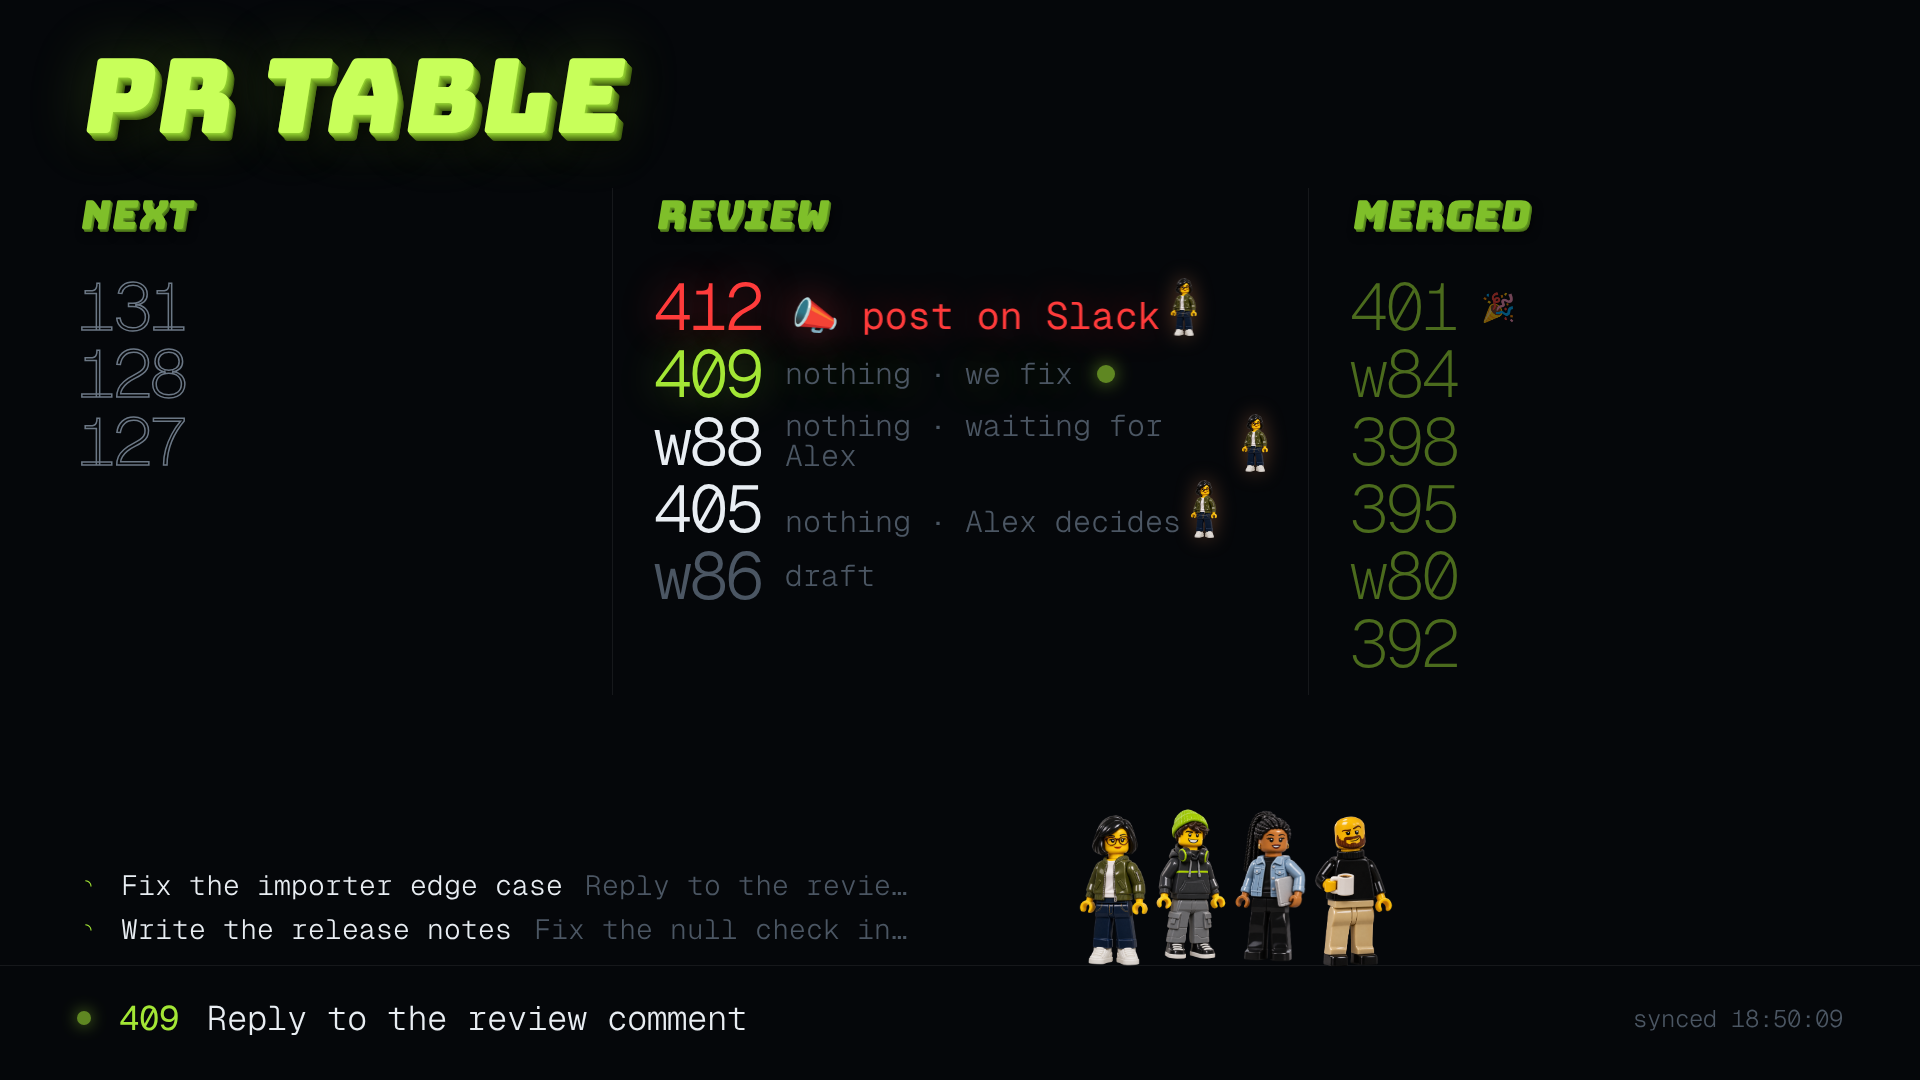
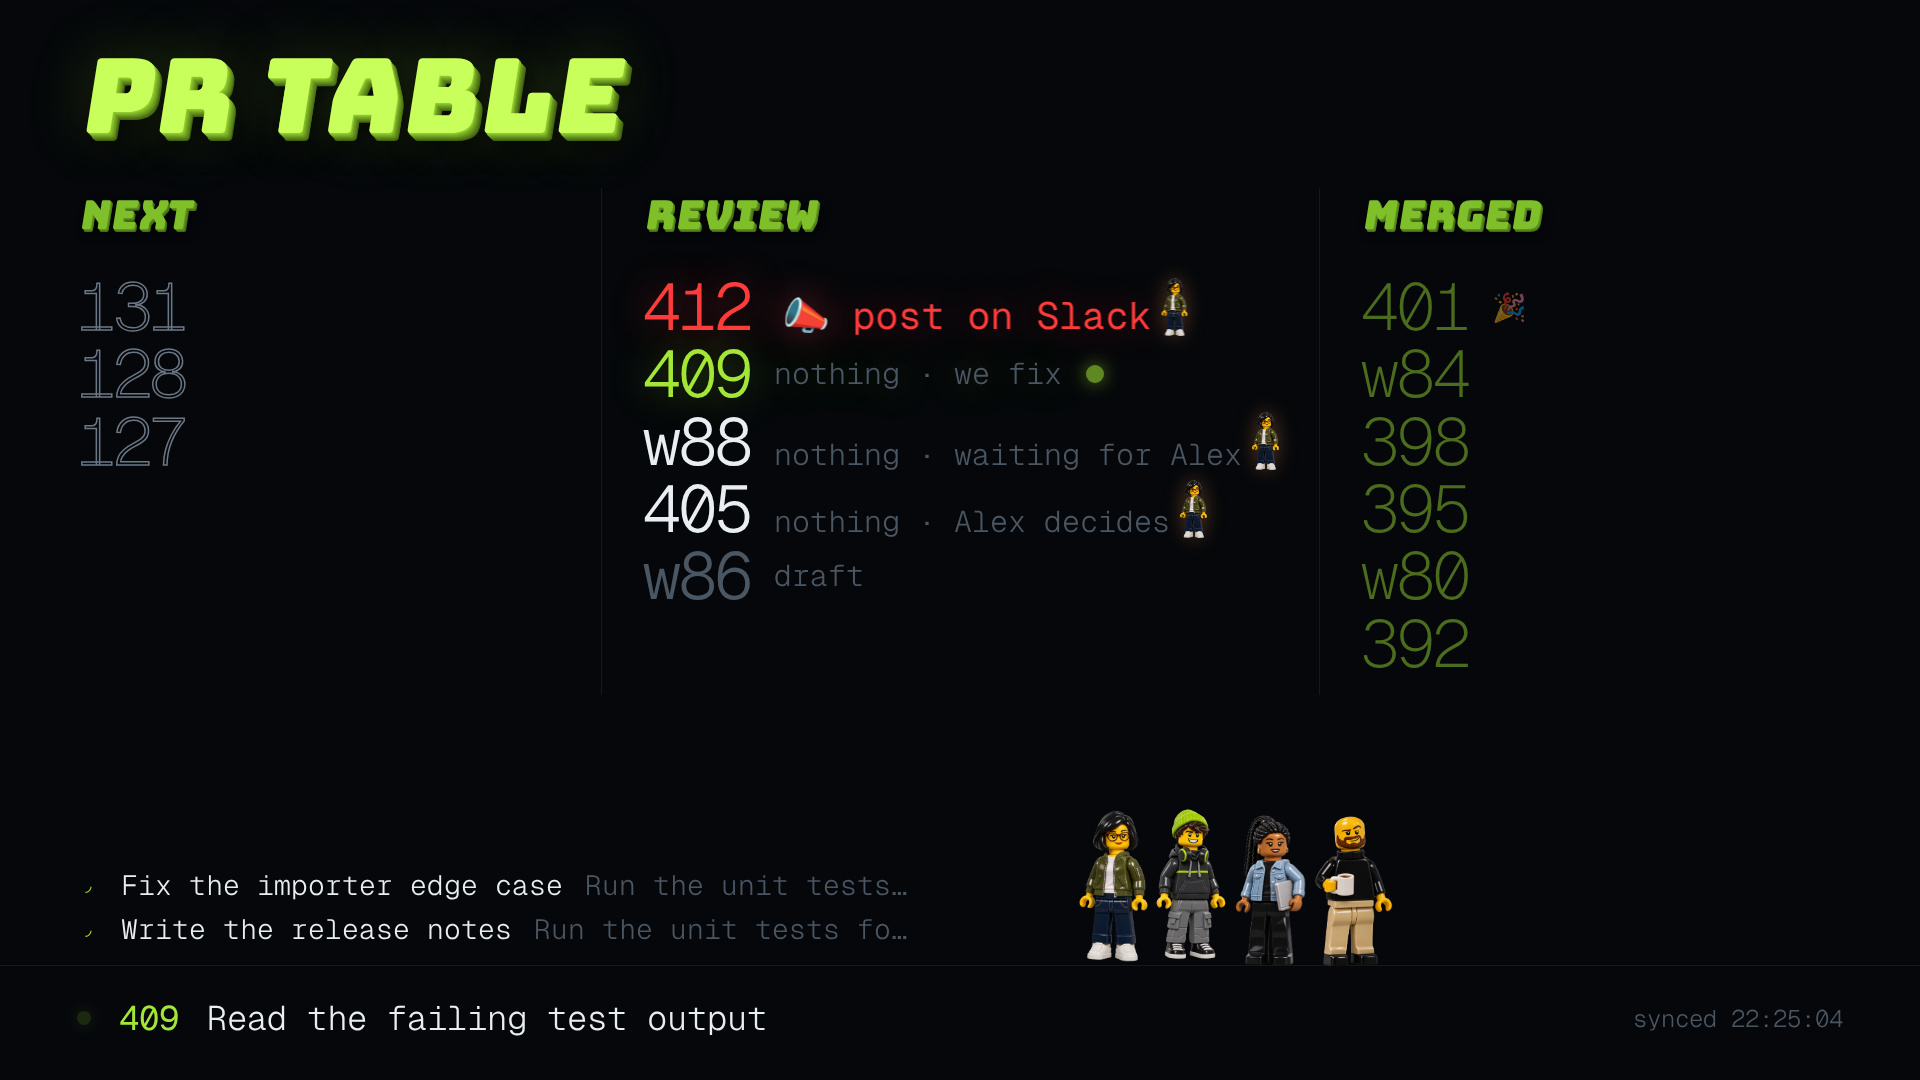
Launch slides in top-launch style, team-first copy, --host for TVs

diff --git a/launch/slides.html b/launch/slides.html
@@ -1,0 +1,106 @@
+<!doctype html>
+<html lang="en">
+<head>
+<meta charset="utf-8">
+<title>PR Table slides</title>
+<link href="https://fonts.googleapis.com/css2?family=Inter+Tight:wght@500;600;700&family=Inter:wght@400;500;600&family=Bungee&family=Geist+Mono:wght@400&display=swap" rel="stylesheet">
+<style>
+* { margin: 0; box-sizing: border-box; }
+html, body { width: 1270px; height: 760px; overflow: hidden; }
+body { position: relative; background: #f7f4ee; font-family: Inter, sans-serif; color: #17181a; }
+body::before { content: ""; position: absolute; inset: 0; background-image: radial-gradient(#d9d2c6 1.1px, transparent 1.2px); background-size: 14px 14px; -webkit-mask-image: radial-gradient(ellipse at 50% 40%, #000 0%, #0008 45%, transparent 80%); }
+body::after { content: ""; position: absolute; inset: 0; background: radial-gradient(ellipse at 50% 110%, #ffffff 0%, transparent 60%); pointer-events: none; }
+.slide { position: absolute; inset: 0; display: none; z-index: 1; }
+.slide.on { display: block; }
+.brand { position: absolute; top: 34px; left: 50%; transform: translateX(-50%); display: flex; align-items: center; gap: 10px; font-family: Bungee, sans-serif; font-size: 20px; color: #3f6a12; }
+.brand img { width: 30px; height: 30px; border-radius: 8px; }
+h1 { position: absolute; left: 0; right: 0; top: 76px; text-align: center; font-family: "Inter Tight", sans-serif; font-weight: 600; font-size: 52px; line-height: 1.04; letter-spacing: -0.035em; }
+h1.two { top: 70px; }
+.sub { position: absolute; left: 0; right: 0; top: 188px; text-align: center; font-size: 20px; color: #6b6b6b; letter-spacing: -0.01em; }
+.monitor { position: absolute; left: 50%; transform: translateX(-50%); background: #0d0f12; border-radius: 18px; padding: 12px; box-shadow: 0 30px 80px -20px #2b241a55, 0 2px 0 #ffffff inset; }
+.monitor img { display: block; width: 100%; border-radius: 8px; }
+.stand { position: absolute; left: 50%; transform: translateX(-50%); width: 120px; height: 34px; background: linear-gradient(#cfc8bb, #b9b1a3); clip-path: polygon(30% 0, 70% 0, 85% 100%, 15% 100%); }
+.crew { position: absolute; display: flex; align-items: flex-end; gap: 6px; }
+.crew img { height: 100%; filter: drop-shadow(0 14px 14px #3a2f1f40); }
+.panel { position: absolute; background: #0d0f12; border-radius: 16px; overflow: hidden; box-shadow: 0 30px 80px -20px #2b241a66; }
+.panel img { display: block; }
+.icons { position: absolute; left: 50%; top: 250px; transform: translateX(-50%); display: grid; grid-template-columns: repeat(6, 104px); gap: 20px; }
+.tile { width: 104px; height: 104px; border-radius: 26px; background: #fff; box-shadow: 0 10px 30px -10px #3a2f1f44, 0 0 0 1px #00000008; display: grid; place-items: center; }
+.tile i { width: 54px; height: 54px; display: block; -webkit-mask: var(--icon) center / contain no-repeat; mask: var(--icon) center / contain no-repeat; background: var(--c); }
+.tile.pr { background: #05070a; }
+.tile.pr span { font-family: Bungee, sans-serif; font-size: 40px; color: #c8ff5a; transform: skew(-9deg); text-shadow: 2px 2px 0 #638f1c, 4px 4px 0 #426210; }
+.labels { position: absolute; left: 50%; top: 384px; transform: translateX(-50%); display: grid; grid-template-columns: repeat(6, 104px); gap: 20px; text-align: center; font-size: 14px; color: #6b6b6b; font-weight: 500; }
+.code { position: absolute; left: 50%; top: 452px; transform: translateX(-50%); width: 760px; background: #fff; border-radius: 18px; box-shadow: 0 20px 50px -18px #3a2f1f44, 0 0 0 1px #00000008; padding: 22px 26px; font-family: "Geist Mono", monospace; font-size: 15px; line-height: 1.65; color: #2b2b2b; white-space: pre; }
+.code b { color: #3f6a12; font-weight: 400; }
+.code s { color: #9a6b2f; text-decoration: none; }
+.chip { position: absolute; background: #fff; border-radius: 14px; padding: 14px 18px; box-shadow: 0 16px 40px -14px #3a2f1f55, 0 0 0 1px #00000008; font-size: 15px; display: flex; align-items: center; gap: 10px; }
+.chip .dot { width: 10px; height: 10px; border-radius: 50%; }
+</style>
+</head>
+<body>
+
+<section class="slide" data-n="1">
+  <div class="brand"><img src="logo-480.png" alt="">PR TABLE</div>
+  <h1>Your team's pull requests,<br>on the wall.</h1>
+  <div class="monitor" style="top:246px; width:760px"><img src="gallery/board.png" alt=""></div>
+  <div class="stand" style="top:690px"></div>
+  <div class="crew" style="left:58px; bottom:-6px; height:300px"><img src="../web/assets/crew/crew-1.png" alt=""><img src="../web/assets/crew/crew-2.png" alt=""></div>
+  <div class="crew" style="right:58px; bottom:-6px; height:300px"><img src="../web/assets/crew/crew-3.png" alt=""><img src="../web/assets/crew/crew-4.png" alt=""></div>
+</section>
+
+<section class="slide" data-n="2">
+  <div class="brand"><img src="logo-480.png" alt="">PR TABLE</div>
+  <h1>One red line.<br>Everything else can wait.</h1>
+  <div class="panel" style="left:50%; transform:translateX(-50%); top:244px; width:690px; height:420px"><img src="gallery/board.png" alt="" style="width:1860px; margin:-232px 0 0 -570px"></div>
+  <div class="chip" style="left:290px; top:684px"><span class="dot" style="background:#ff3b3b"></span>Needs you: post it on Slack</div>
+  <div class="chip" style="right:290px; top:684px"><span class="dot" style="background:#9aa3ad"></span>Everything else: <b>nothing</b></div>
+</section>
+
+<section class="slide" data-n="3">
+  <div class="brand"><img src="logo-480.png" alt="">PR TABLE</div>
+  <h1>Every merge gets<br>a 20-second party.</h1>
+  <div class="monitor" style="top:246px; width:760px"><img src="gallery/merged.png" alt=""></div>
+  <div class="stand" style="top:690px"></div>
+</section>
+
+<section class="slide" data-n="4">
+  <div class="brand"><img src="logo-480.png" alt="">PR TABLE</div>
+  <h1>Plug in what your team<br>already ships with.</h1>
+  <div class="icons">
+    <div class="tile"><i style="--icon:url(https://cdn.jsdelivr.net/npm/simple-icons@13.21.0/icons/github.svg); --c:#181717"></i></div>
+    <div class="tile"><i style="--icon:url(https://cdn.jsdelivr.net/npm/simple-icons@13.21.0/icons/slack.svg); --c:#4A154B"></i></div>
+    <div class="tile"><i style="--icon:url(https://cdn.jsdelivr.net/npm/simple-icons@13.21.0/icons/claude.svg); --c:#D97757"></i></div>
+    <div class="tile"><i style="--icon:url(https://cdn.jsdelivr.net/npm/simple-icons@13.21.0/icons/git.svg); --c:#F05032"></i></div>
+    <div class="tile"><i style="--icon:url(https://cdn.jsdelivr.net/npm/simple-icons@13.21.0/icons/raspberrypi.svg); --c:#A22846"></i></div>
+    <div class="tile pr"><span>PR</span></div>
+  </div>
+  <div class="labels"><span>PRs, reviews, checks</span><span>who posted</span><span>live agents</span><span>next branches</span><span>any TV or Pi</span><span>one screen</span></div>
+  <div class="code">{
+  <b>"github"</b>: { <b>"repos"</b>: [<s>"acme/api"</s>, <s>"acme/web"</s>] },
+  <b>"reviewer"</b>: { <b>"login"</b>: <s>"alex"</s> },
+  <b>"slack"</b>: { <b>"channel"</b>: <s>"C042PRS"</s> }
+}</div>
+</section>
+
+<section class="slide" data-n="5">
+  <div class="brand"><img src="logo-480.png" alt="">PR TABLE</div>
+  <h1>When your reviewer comments,<br>the whole room knows.</h1>
+  <div class="monitor" style="top:246px; width:760px"><img src="gallery/reviewer-alert.png" alt=""></div>
+  <div class="stand" style="top:690px"></div>
+</section>
+
+<section class="slide" data-n="6">
+  <div class="brand"><img src="logo-480.png" alt="">PR TABLE</div>
+  <h1>Your team, as minifigs.</h1>
+  <div class="sub">Generate everyone from a photo. The prompts ship with the repo.</div>
+  <div class="crew" style="left:50%; transform:translateX(-50%); bottom:40px; height:470px; gap:18px">
+    <img src="../web/assets/crew/crew-1.png" alt=""><img src="../web/assets/crew/crew-2.png" alt=""><img src="../web/assets/crew/crew-3.png" alt=""><img src="../web/assets/crew/crew-4.png" alt="">
+  </div>
+</section>
+
+<script>
+const n = new URLSearchParams(location.search).get("n") || "1";
+document.querySelector(`.slide[data-n="${n}"]`).classList.add("on");
+</script>
+</body>
+</html>

diff --git a/launch/preview.html b/launch/preview.html
@@ -1,0 +1,94 @@
+<!doctype html>
+<html lang="en">
+<head>
+<meta charset="utf-8">
+<meta name="viewport" content="width=device-width, initial-scale=1">
+<title>PR Table launch preview</title>
+<link href="https://fonts.googleapis.com/css2?family=Inter:wght@400;600;700&family=Bungee&display=swap" rel="stylesheet">
+<style>
+:root { --bg: #0b0d10; --card: #14171c; --line: #262b33; --ink: #f2f4f7; --grey: #9aa3ad; --lime: #c8ff5a; --ph: #ff6154; }
+* { box-sizing: border-box; margin: 0; }
+html, body { background: var(--bg); color: var(--ink); font-family: Inter, sans-serif; }
+body { padding: 40px clamp(16px, 3vw, 48px) 80px; display: flex; flex-direction: column; gap: 56px; }
+h1 { font-family: Bungee, sans-serif; font-weight: 400; font-size: 34px; color: var(--lime); }
+h2 { font-size: 22px; font-weight: 700; margin-bottom: 18px; }
+.variants { display: grid; grid-template-columns: repeat(auto-fill, minmax(520px, 1fr)); gap: 20px; }
+.card { background: var(--card); border: 1px solid var(--line); border-radius: 14px; padding: 22px; display: grid; grid-template-columns: 72px 1fr; gap: 6px 18px; }
+.card img { width: 72px; height: 72px; border-radius: 12px; grid-row: span 3; }
+.num { color: var(--ph); font-weight: 700; margin-right: 8px; }
+.name { font-size: 20px; font-weight: 700; }
+.tag { font-size: 17px; color: var(--grey); line-height: 1.35; }
+.desc { grid-column: 1 / -1; margin-top: 12px; font-size: 15px; line-height: 1.5; color: #d6dbe1; }
+.angle { grid-column: 1 / -1; margin-top: 6px; font-size: 13px; color: var(--lime); }
+.gallery { display: grid; grid-template-columns: repeat(auto-fill, minmax(560px, 1fr)); gap: 24px; }
+figure { background: var(--card); border: 1px solid var(--line); border-radius: 14px; overflow: hidden; }
+figure img, figure video { display: block; width: 100%; aspect-ratio: 1270 / 760; object-fit: cover; background: #000; }
+figcaption { padding: 12px 16px; font-size: 15px; }
+figcaption b { color: var(--ph); margin-right: 8px; }
+.logo-fig img { aspect-ratio: auto; width: 240px; height: 240px; object-fit: contain; margin: 24px auto; background: transparent; }
+</style>
+</head>
+<body>
+<h1>PR TABLE · launch preview</h1>
+
+<section>
+  <h2>Taglines built on D and E, team-first</h2>
+  <div class="variants" id="variants"></div>
+</section>
+
+<section>
+  <h2>New slides (top-launch style)</h2>
+  <div class="gallery">
+    <figure><img src="gallery/slide-1.png" alt=""><figcaption><b>S1</b>Your team's pull requests, on the wall</figcaption></figure>
+    <figure><img src="gallery/slide-2.png" alt=""><figcaption><b>S2</b>One red line</figcaption></figure>
+    <figure><img src="gallery/slide-3.png" alt=""><figcaption><b>S3</b>Every merge gets a 20-second party</figcaption></figure>
+    <figure><img src="gallery/slide-4.png" alt=""><figcaption><b>S4</b>Plug in what your team already ships with</figcaption></figure>
+    <figure><img src="gallery/slide-5.png" alt=""><figcaption><b>S5</b>When your reviewer comments</figcaption></figure>
+    <figure><img src="gallery/slide-6.png" alt=""><figcaption><b>S6</b>Your team, as minifigs</figcaption></figure>
+    </div>
+</section>
+
+<section>
+  <h2>First round</h2>
+  <div class="gallery">
+    <figure><img src="gallery/cover.png" alt=""><figcaption><b>1</b>Cover · minifigs party + title</figcaption></figure>
+    <figure><img src="gallery/merge.gif" alt=""><figcaption><b>2</b>Merge party (GIF)</figcaption></figure>
+    <figure><img src="gallery/board.png" alt=""><figcaption><b>3</b>The board · one red line</figcaption></figure>
+    <figure><img src="gallery/merged.png" alt=""><figcaption><b>4</b>MERGED frame</figcaption></figure>
+    <figure><img src="gallery/reviewer-alert.png" alt=""><figcaption><b>5</b>Reviewer alert</figcaption></figure>
+    <figure><img src="gallery/hero-party.png" alt=""><figcaption><b>6</b>Minifigs party on the keyboard</figcaption></figure>
+    <figure><img src="gallery/hero-lever.png" alt=""><figcaption><b>7</b>The merge lever</figcaption></figure>
+    <figure><video src="gallery/demo.mp4" controls muted loop autoplay playsinline></video><figcaption><b>8</b>Demo video</figcaption></figure>
+    <figure class="logo-fig"><img src="logo-480.png" alt=""><figcaption><b>9</b>Thumbnail / logo</figcaption></figure>
+  </div>
+</section>
+
+<script>
+const VARIANTS = [
+  { name: "PR Table", tag: "Mission control for teams that ship with AI",
+    desc: "A dedicated screen for your team's pull requests. Plug in GitHub, Slack and Claude Code: giant Next, Review, Merged numbers, live agent activity, the one PR that needs you in red, and a 20 second party on every merge.",
+    angle: "E, team version. Serious and broad, still says AI." },
+  { name: "PR Table", tag: "Watch your team's AI agents ship from the couch",
+    desc: "Put your team's pull requests on a dedicated screen. PR Table plugs into GitHub, Slack and Claude Code, shows every agent working live, turns the one PR that needs someone red, and throws a 20 second party on every merge.",
+    angle: "D, team version. Fun and visual, rides the agent wave." },
+  { name: "PR Table", tag: "Mission control for your team's PRs and AI agents",
+    desc: "One dedicated screen, the whole team's pull requests. Connect GitHub, Slack and Claude Code once, then read Next, Review and Merged from across the room, see agents work live, and celebrate every merge with confetti.",
+    angle: "D + E mixed. Names both things you watch." },
+  { name: "PR Table", tag: "Your team's AI agents, live on the office wall",
+    desc: "PR Table turns any TV or monitor into a live wall for your team's pull requests. It plugs into GitHub, Slack and Claude Code, so everyone sees what the agents ship, what needs a human, and every merge gets a party.",
+    angle: "D, office version. Makes people picture the wall." },
+  { name: "PR Table", tag: "Mission control for devs who ship with AI",
+    desc: "A wall-sized, real-time view of your team's pull requests: Next, Review, Merged in giant numbers, live Claude Code agents, a full-screen alert when your reviewer comments, and a confetti party on every merge. Open source.",
+    angle: "E as you liked it, description made team-first." },
+];
+document.getElementById("variants").innerHTML = VARIANTS.map((v, i) => `
+  <div class="card"><img src="logo-480.png" alt="">
+    <div class="name"><span class="num">${String.fromCharCode(65 + i)}</span>${v.name}</div>
+    <div class="tag">${v.tag} <span style="color:#5d6670">· ${v.tag.length}/60</span></div>
+    <div></div>
+    <div class="desc">${v.desc} <span style="color:#5d6670">· ${v.desc.length}/260</span></div>
+    <div class="angle">${v.angle}</div>
+  </div>`).join("");
+</script>
+</body>
+</html>

diff --git a/server.py b/server.py
@@ -600,6 +600,7 @@ def main():
     ap.add_argument("--config", default=str(ROOT / "config.json"))
     ap.add_argument("--demo", action="store_true", help="run with fake data, no GitHub needed")
     ap.add_argument("--port", type=int)
+    ap.add_argument("--host", default="127.0.0.1", help="0.0.0.0 to show the table on a TV or Raspberry Pi on your network")
     args = ap.parse_args()
     ThreadingHTTPServer.daemon_threads = True
     if args.demo:
@@ -616,8 +617,8 @@ def main():
         threading.Thread(target=threads_loop, args=(pulls,), daemon=True).start()
         threading.Thread(target=transcript_loop, args=(Transcript(cfg, pulls),), daemon=True).start()
         port = args.port or cfg.port
-    print(f"PR Table on http://127.0.0.1:{port}", flush=True)
-    ThreadingHTTPServer(("127.0.0.1", port), Handler).serve_forever()
+    print(f"PR Table on http://{args.host}:{port}", flush=True)
+    ThreadingHTTPServer((args.host, port), Handler).serve_forever()
 
 
 if __name__ == "__main__":

diff --git a/README.md b/README.md
@@ -40,6 +40,8 @@ Open http://127.0.0.1:4950 and press F11. The demo invents PRs, agents and a mer
 
 Linux users can let `bin/pr-table` do the fullscreen part: `bin/pr-table` toggles a kiosk window on your external monitor (Chromium, Chrome, Brave or Edge, with Hyprland support), `bin/pr-table party 1234` replays the merge animation for whoever is watching. A ready-made systemd unit lives in `contrib/pr-table.service`.
 
+For a team screen, run it on any machine and open it from the TV or Raspberry Pi on your network: `python3 server.py --host 0.0.0.0`, then browse to `http://<that-machine>:4950`.
+
 Requirements: Python 3.10+ (standard library only), a GitHub token, any modern browser.
 
 ## What each label means
